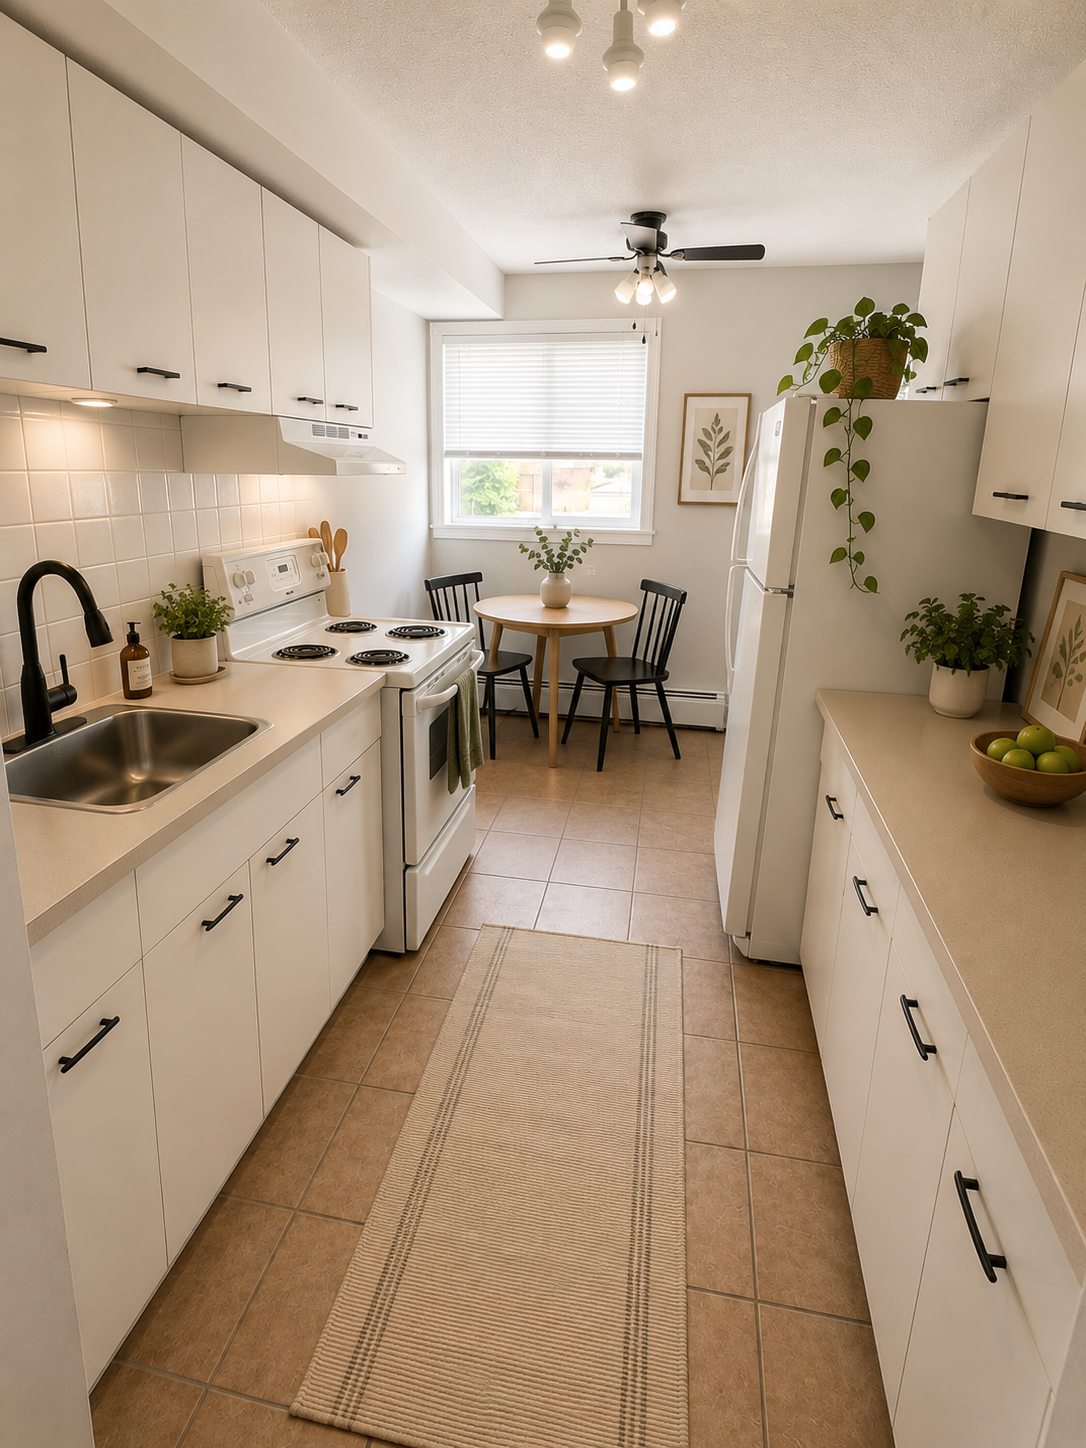
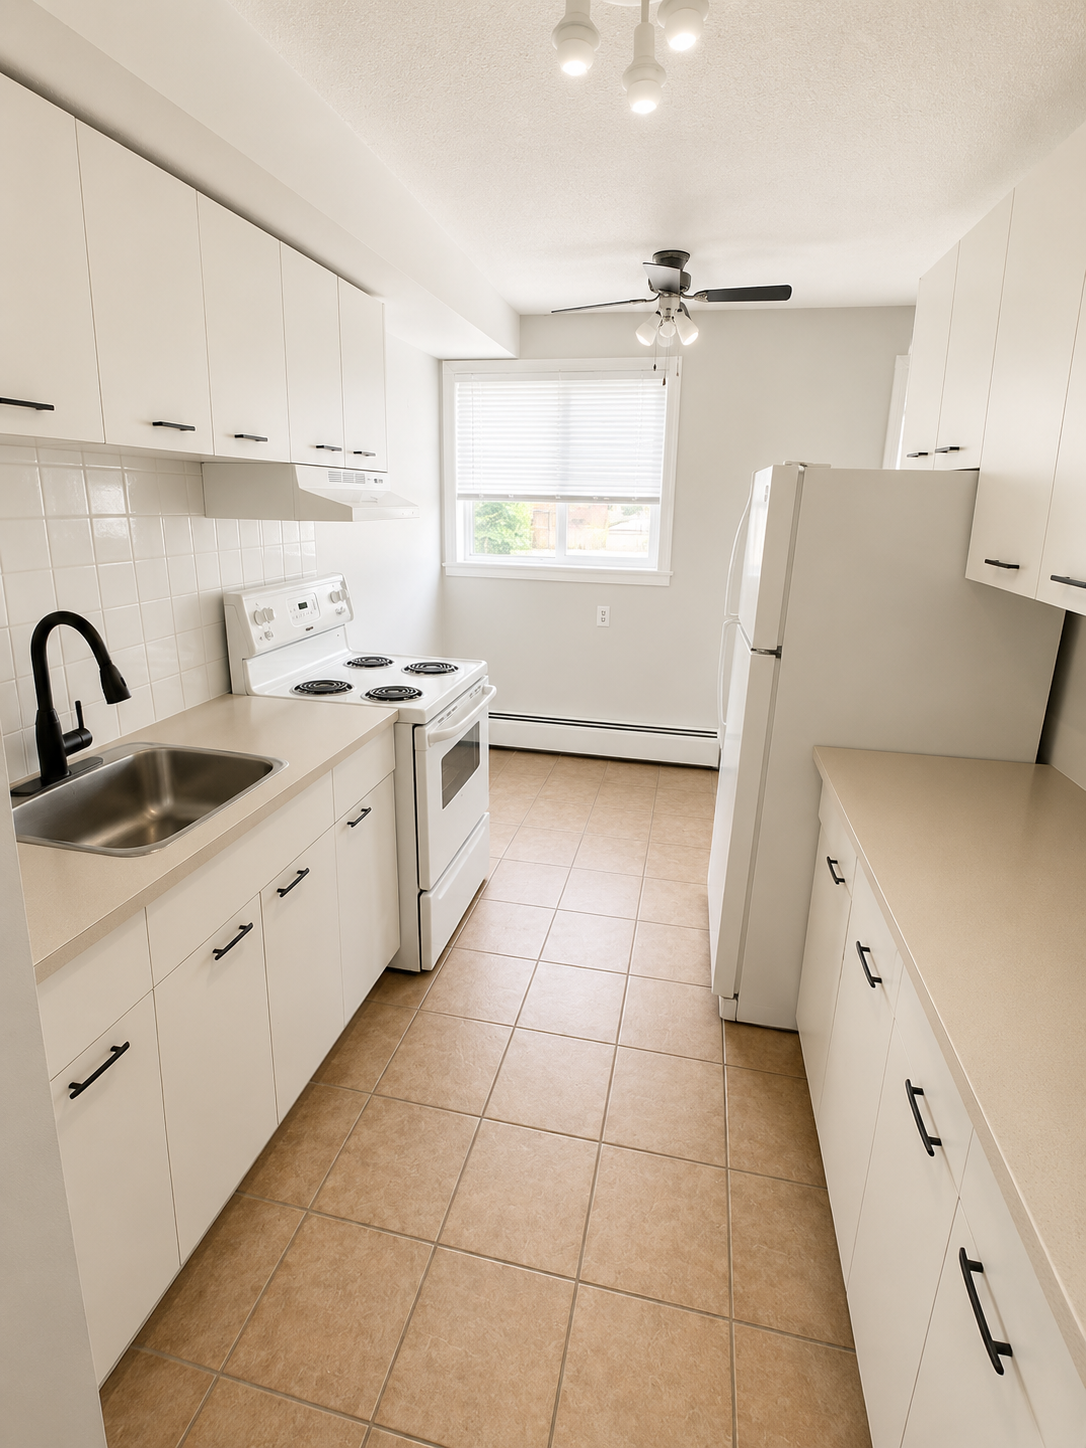
Acadian Images reorder

diff --git a/lib/data.ts b/lib/data.ts
@@ -484,24 +484,20 @@ const REAL_PHOTOS: Record<string, { hero?: string; gallery: string[] }> = {
     // Interiors replaced with AI renders across units 103/303, 106/201/207/
     // 304/306, and 202/205 (furnished + unfurnished, 2026).
     gallery: [
-      '/assets/acadian/02.png', // 103/303 · Living area (furnished)
-      '/assets/acadian/03.png', // 103/303 · Kitchen (furnished)
-      '/assets/acadian/04.png', // 103/303 · Living area
-      '/assets/acadian/05.png', // 103/303 · Kitchen
-      '/assets/acadian/06.png', // 106… · Living room (furnished)
-      '/assets/acadian/07.png', // 106… · Kitchen (furnished)
-      '/assets/acadian/08.png', // 106… · Bedroom (furnished)
-      '/assets/acadian/09.png', // 106… · Living room
-      '/assets/acadian/10.png', // 106… · Kitchen
-      '/assets/acadian/11.png', // 106… · Bedroom
-      '/assets/acadian/12.png', // 202/205 · Living room (furnished)
-      '/assets/acadian/13.png', // 202/205 · Kitchen (furnished)
-      '/assets/acadian/14.png', // 202/205 · Bedroom (furnished)
-      '/assets/acadian/15.png', // 202/205 · Master bedroom (furnished)
-      '/assets/acadian/16.png', // 202/205 · Living room
-      '/assets/acadian/17.png', // 202/205 · Kitchen
-      '/assets/acadian/18.png', // 202/205 · Bedroom
-      '/assets/acadian/19.png', // 202/205 · Master bedroom
+      '/assets/acadian/02.png', // unfurnished
+      '/assets/acadian/03.png', // unfurnished
+      '/assets/acadian/04.png', // unfurnished
+      '/assets/acadian/05.png', // unfurnished
+      '/assets/acadian/06.png', // unfurnished
+      '/assets/acadian/07.png', // unfurnished
+      '/assets/acadian/08.png', // unfurnished
+      '/assets/acadian/09.png', // furnished
+      '/assets/acadian/10.png', // furnished
+      '/assets/acadian/11.png', // furnished
+      '/assets/acadian/12.png', // furnished
+      '/assets/acadian/13.png', // furnished
+      '/assets/acadian/14.png', // furnished
+      '/assets/acadian/15.png', // furnished
     ],
   },
   hamlet: {
